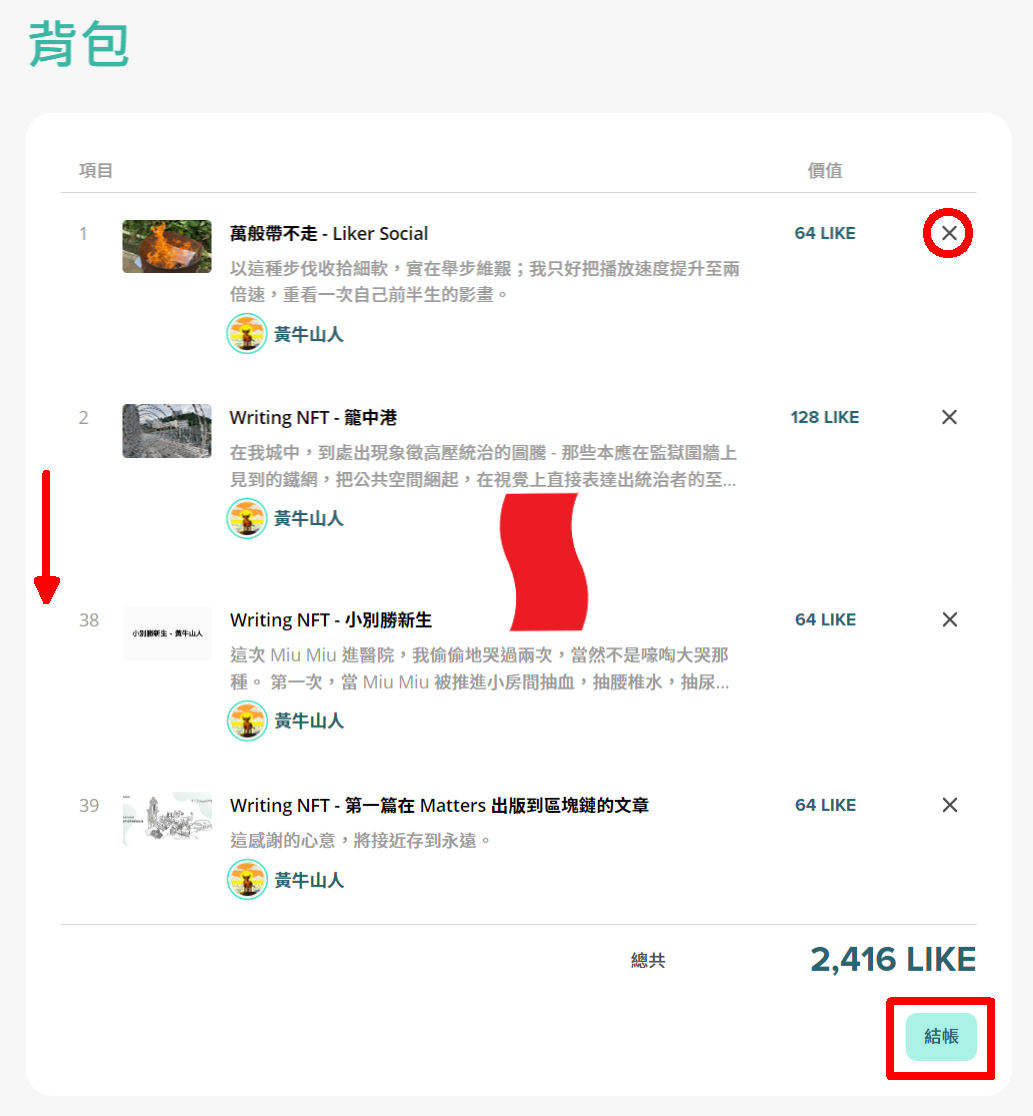
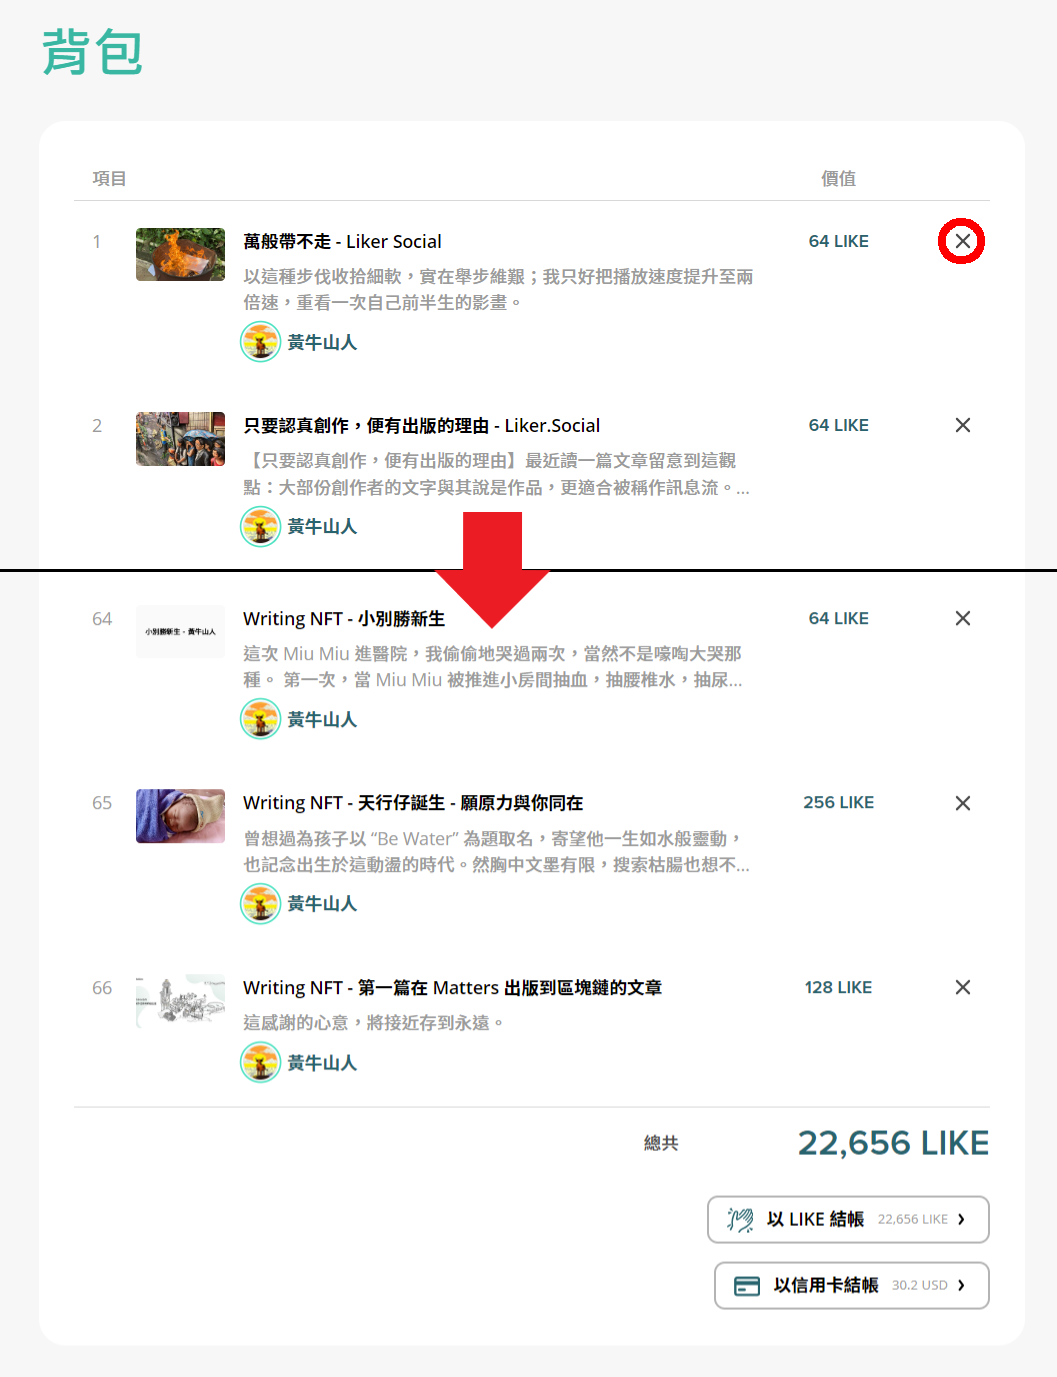
GITBOOK-4538: 一鍵收藏 Writing NFT

diff --git a/general-guides/writing-nft/collect-writing-nft/collect-all.md b/general-guides/writing-nft/collect-writing-nft/collect-all.md
@@ -14,7 +14,7 @@ description: 手機與桌機均適用
 
 ## 步驟一：登入錢包並開始一鍵收藏
 
-請先登入你的  [Keplr](../../wallet/keplr/)、[Cosmostation](../../wallet/cosmostation/)、[Leap](../../wallet/leap/how-to-install-leap-extension.md)、[Keplr Mobile](../../wallet/keplr-mobile/)、[Cosmostation app](../../wallet/cosmostation-mobile/) 或 [Liker Land 手機應用程](../../../user-guide/liker-land/download.md)，然後在創作者的 [NFT 展示櫃](nft-portfolio.md)點「一鍵收藏」。
+請先登入你的  [Keplr](../../wallet/keplr/)、[Cosmostation](../../wallet/cosmostation/)、[Leap](../../wallet/leap/how-to-install-leap-extension.md)、[Keplr Mobile](../../wallet/keplr-mobile/)、[Cosmostation app](../../wallet/cosmostation-mobile/) 或 [Liker Land 手機應用程式](../../../user-guide/liker-land/download.md)，然後在創作者的 [NFT 展示櫃](nft-portfolio.md)點「一鍵收藏」。
 
 <figure><img src="../../../.gitbook/assets/Collect All 1.png" alt=""><figcaption><p>點「一鍵收藏」</p></figcaption></figure>
 
@@ -22,17 +22,27 @@ description: 手機與桌機均適用
 
 出現背包頁面。假如你經已擁有該創作者的 NFT，系統會自動幫你排除已擁有的 NFT，只留下你從未收藏過的 NFT。你也可以點「X」刪除你不想購買的 NFT。
 
-檢查完成後點「結帳」。
+檢查完成後點「以 LIKE 結帳」或「以信用卡結帳」。
 
-<figure><img src="../../../.gitbook/assets/Collect All 2.png" alt=""><figcaption><p>在背包點「結帳」</p></figcaption></figure>
+<figure><img src="../../../.gitbook/assets/Collect All 2.png" alt=""><figcaption><p>在背包點點「以 LIKE 結帳」或「以信用卡結帳」</p></figcaption></figure>
 
 ## 步驟三：確認購買
+
+### 以 LIKE 結帳
 
 以 Keplr 為例，彈出視窗後點「Approve」確認購買。使用 Cosmostation、Leap、Keplr Mobile、Cosmostation app 或 Liker Land 手機應用程式亦會彈出相應的確認畫面，
 
 <figure><img src="../../../.gitbook/assets/Collect All 3.png" alt=""><figcaption><p>Keplr 彈出視窗，點「Approve」確認購買</p></figcaption></figure>
 
+### 以信用卡結帳
+
+填寫信用卡資料再點「Pay」。
+
+<figure><img src="../../../.gitbook/assets/Collect All 6.png" alt=""><figcaption><p>填寫信用卡資料再點「Pay」</p></figcaption></figure>
+
 ## 步驟四：查看已購買的 Writing NFT
+
+### 以 LIKE 結帳
 
 出現收藏作品頁面。
 
@@ -41,6 +51,12 @@ description: 手機與桌機均適用
 付款成功後可點「檢視收藏頁」檢視已購買的 NFT。
 
 <figure><img src="../../../.gitbook/assets/Collect All 5.png" alt=""><figcaption><p>點「檢視收藏頁」</p></figcaption></figure>
+
+### 以信用卡結帳
+
+付款成功後出現「收藏成功」頁，點「檢視收藏」檢視已購買的 NFT。
+
+<figure><img src="../../../.gitbook/assets/Collect All 7.png" alt=""><figcaption><p>點「檢視收藏」</p></figcaption></figure>
 
 #### 建議同時關注作者以便收藏新作：
 
